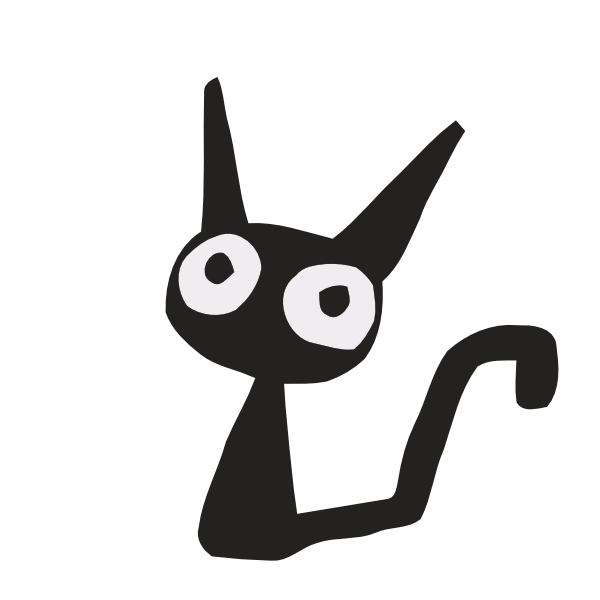
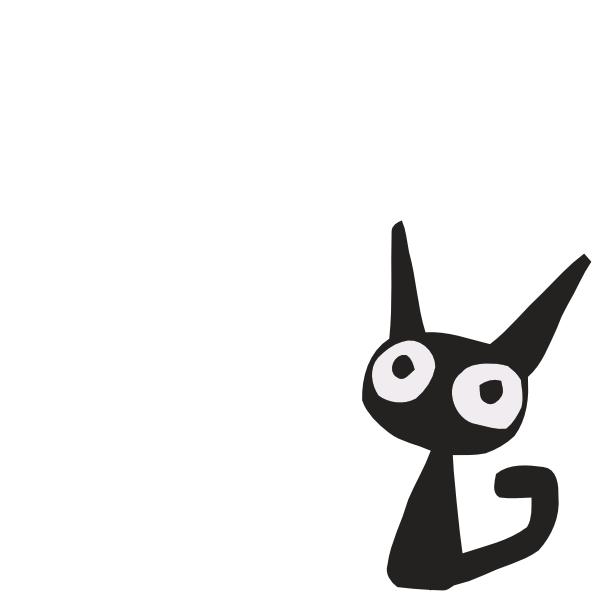
update

Changed region(s): [[0.27, 0.12, 0.99, 0.99]]

diff --git a/index.html b/index.html
@@ -28,11 +28,20 @@
 
         #bottom-right-image {
             position: fixed;
-            bottom: 10px;
-            right: 10px;
-            width: 100px;
+            bottom: 30px;
+            right: 30px;
+            width: 300px;
             height: auto;
             z-index: 1000;
+            transition: transform 1s ease, opacity 1s ease;
+        }
+
+        #bottom-right-image:hover {
+            content: url("img/cat_bubble.png");
+            transform: scale(1);
+            /* Enlarge the image slightly on hover */
+            opacity: 1;
+            /* Make the image slightly transparent on hover */
         }
     </style>
 </head>
